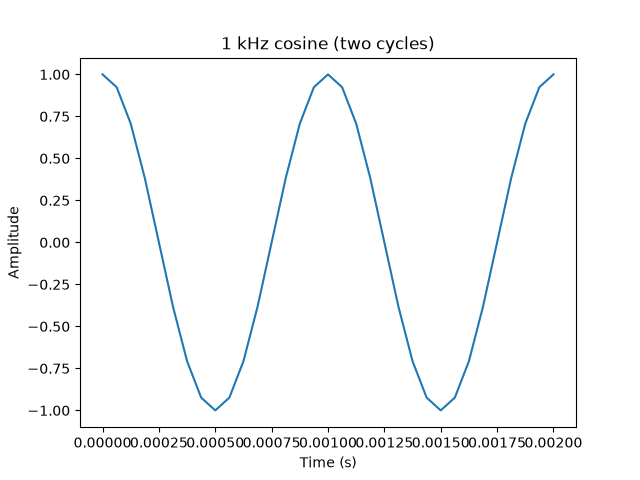
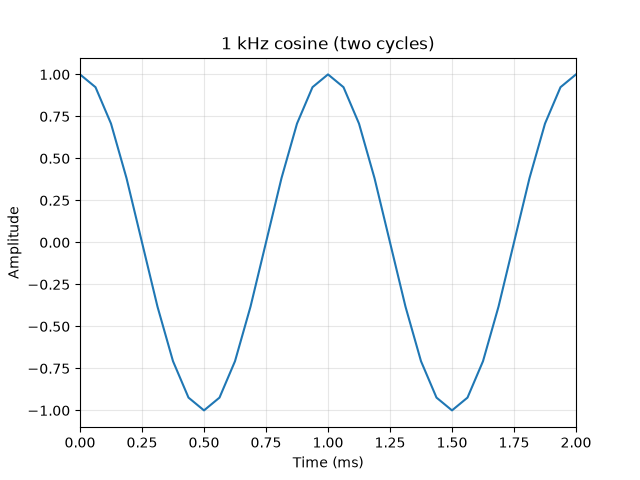
fixed the axis for the plots

diff --git a/phase1.py b/phase1.py
@@ -1,0 +1,80 @@
+import glob
+import os
+import numpy as np
+import soundfile as sf
+import sounddevice as sd
+import matplotlib.pyplot as plt
+from scipy.signal import resample_poly
+
+TARGET_FS = 16000
+TWO_MS = 2e-3
+OUTPUT_DIR = "audio/output"
+MONO_DIR = os.path.join(OUTPUT_DIR, "mono")
+WAVEFORM_DIR = os.path.join(OUTPUT_DIR, "waveform")
+COSINE_DIR = os.path.join(OUTPUT_DIR, "cosine")
+
+
+def process_sound(path):
+    x, fs = sf.read(path)
+    print(f"{path}: sampling rate = {fs} Hz")
+
+    if x.ndim == 2:
+        x = x.mean(axis=1)
+
+    if fs < TARGET_FS:
+        print(f"{path}: {fs} Hz is below 16 kHz, pick a different file")
+        return None
+
+    sd.play(x, fs)
+    sd.wait()
+
+    name = os.path.splitext(os.path.basename(path))[0]
+    sf.write(os.path.join(MONO_DIR, f"{name}_mono.wav"), x, fs)
+
+    plt.figure()
+    plt.plot(x)
+    plt.xlim(0, len(x))
+    plt.grid(alpha=0.3)
+    plt.title(f"Waveform: {name}")
+    plt.xlabel("Sample number")
+    plt.ylabel("Amplitude")
+    plt.savefig(os.path.join(WAVEFORM_DIR, f"{name}_waveform.png"))
+
+    if fs != TARGET_FS:
+        x = resample_poly(x, TARGET_FS, fs)
+
+    return x
+
+
+def cosine_1khz(name, n):
+    t = np.arange(n) / TARGET_FS
+    y = np.cos(2 * np.pi * 1000 * t)
+
+    sd.play(y, TARGET_FS)
+    sd.wait()
+
+    two = t <= TWO_MS
+    plt.figure()
+    plt.plot(t[two] * 1000, y[two])
+    plt.xlim(0, TWO_MS * 1000)
+    plt.xticks(np.arange(0, 2.25, 0.25))
+    plt.grid(alpha=0.3)
+    plt.title("1 kHz cosine (two cycles)")
+    plt.xlabel("Time (ms)")
+    plt.ylabel("Amplitude")
+    plt.savefig(os.path.join(COSINE_DIR, f"{name}_cosine_1khz.png"))
+
+    return y
+
+for d in (MONO_DIR, WAVEFORM_DIR, COSINE_DIR):
+    os.makedirs(d, exist_ok=True)
+files = sorted(glob.glob("audio/selected/*.wav"))
+
+for f in files:
+    x = process_sound(f)
+    if x is None:
+        continue
+    name = os.path.splitext(os.path.basename(f))[0]
+    cosine_1khz(name, len(x))
+
+plt.show()

diff --git a/task3.py b/task3.py
@@ -33,7 +33,9 @@ def process_sound(path):
 
     plt.figure()
     plt.plot(x)
-    plt.title(f"Waveform: {path}")
+    plt.xlim(0, len(x))
+    plt.grid(alpha=0.3)
+    plt.title(f"Waveform: {name}")
     plt.xlabel("Sample number")
     plt.ylabel("Amplitude")
     plt.savefig(os.path.join(WAVEFORM_DIR, f"{name}_waveform.png"))
@@ -53,9 +55,12 @@ def cosine_1khz(name, n):
 
     two = t <= TWO_MS
     plt.figure()
-    plt.plot(t[two], y[two])
+    plt.plot(t[two] * 1000, y[two])
+    plt.xlim(0, TWO_MS * 1000)
+    plt.xticks(np.arange(0, 2.25, 0.25))
+    plt.grid(alpha=0.3)
     plt.title("1 kHz cosine (two cycles)")
-    plt.xlabel("Time (s)")
+    plt.xlabel("Time (ms)")
     plt.ylabel("Amplitude")
     plt.savefig(os.path.join(COSINE_DIR, f"{name}_cosine_1khz.png"))
 
